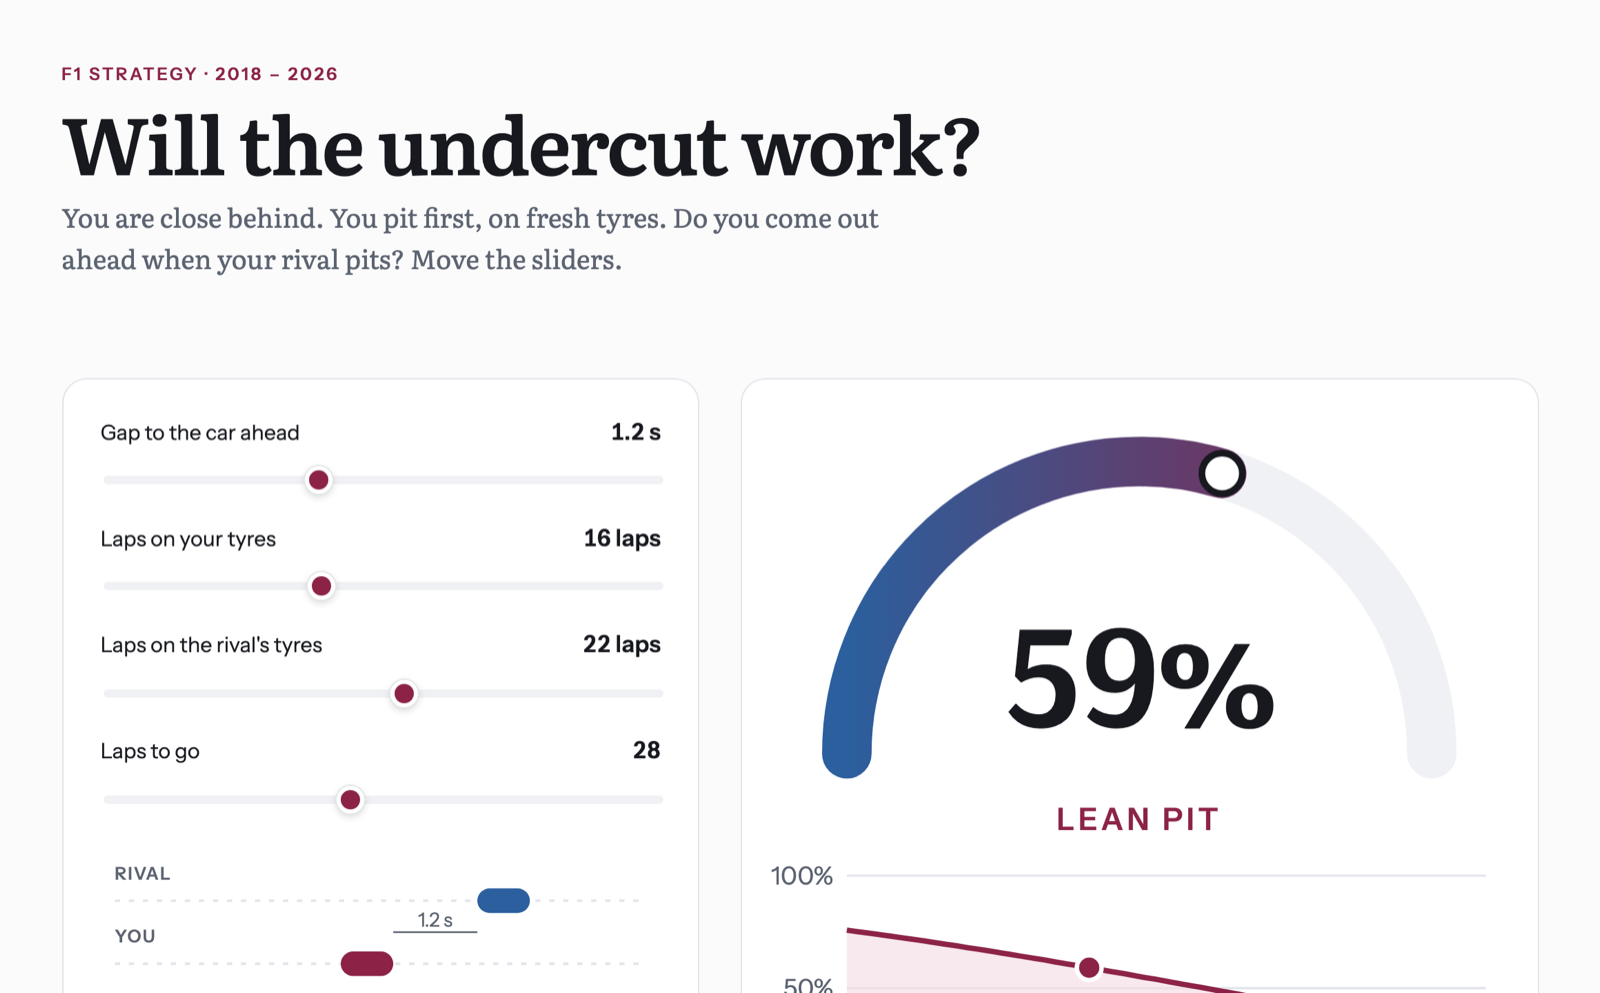
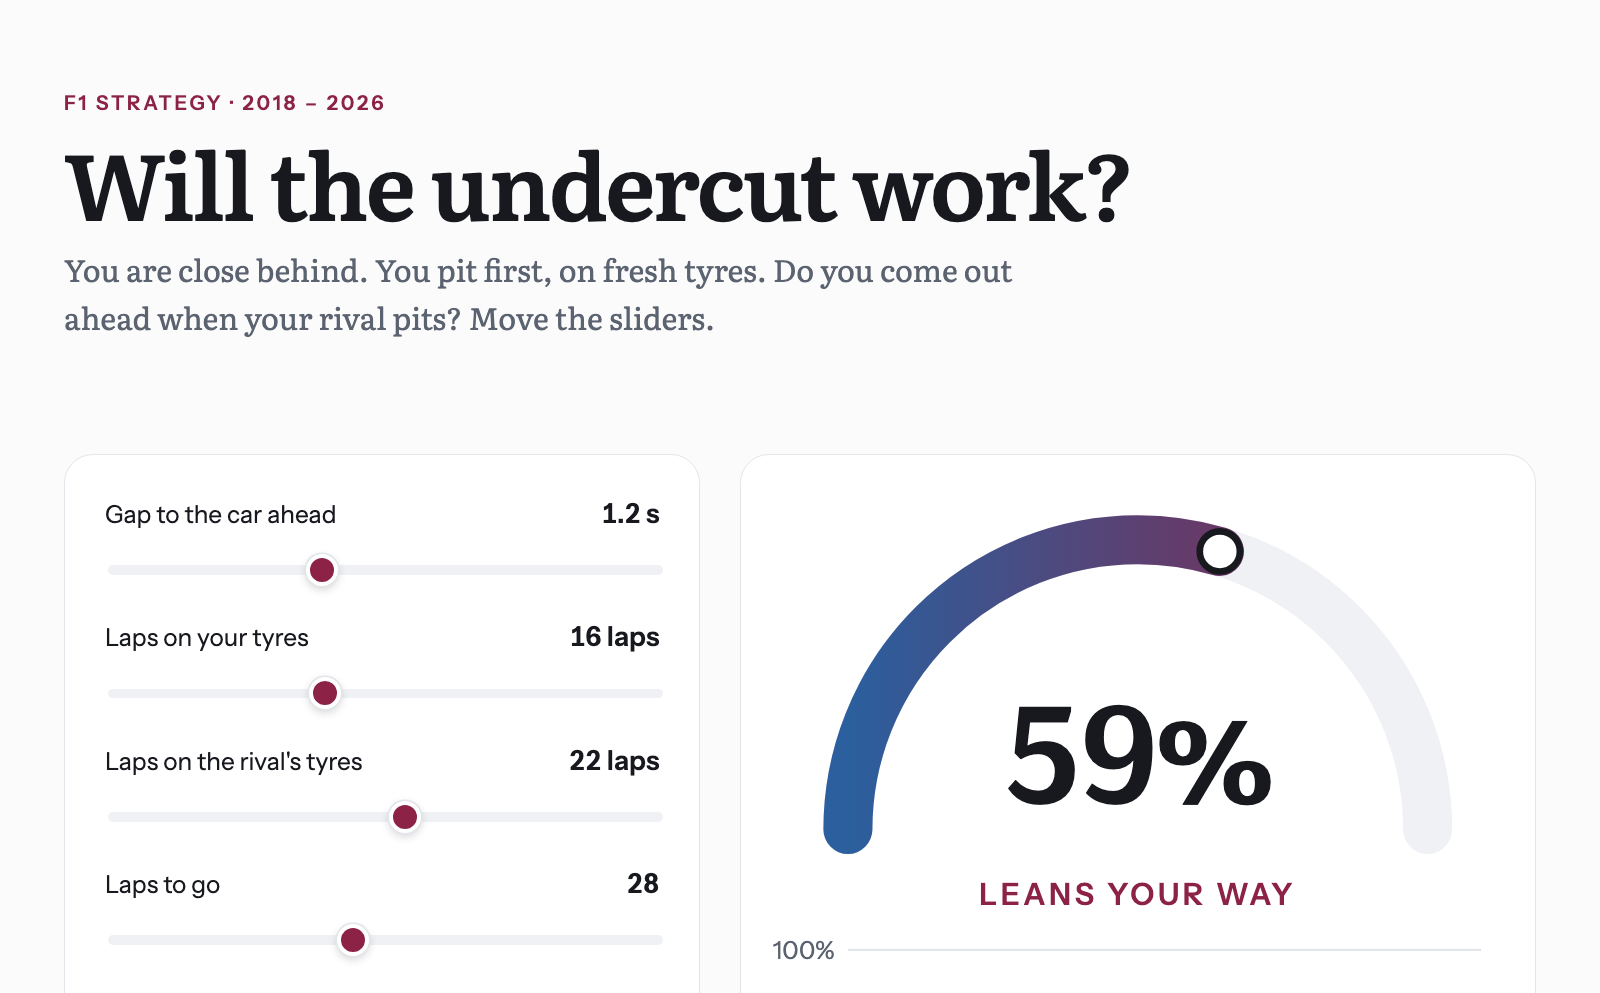
README and method: add the lap-time ranges (spec 12), spec 13 and the power analysis; new site screenshot; reproduce runs the new scripts

diff --git a/README.md b/README.md
@@ -1,15 +1,17 @@
 # pitwall
 
 Formula 1 race-strategy models built only from public lap data: a lap-time forecaster, an undercut probability tool,
-and a race simulator. Every model was tested on 2026 races that stayed locked until the end.
+and a race simulator. Each of the three models was tested on 2026 races that stayed locked until the end.
 
-**Live:** <https://shlokkvaishnav.github.io/pitwall/>: the undercut tool runs in your browser.
+**Live:** <https://shlokkvaishnav.github.io/pitwall/>: the undercut tool runs in your browser, next to a lap-by-lap replay
+of the lap-time forecast on a 2026 race that was not in its training data.
 
 [![The pitwall site](docs/site.png)](https://shlokkvaishnav.github.io/pitwall/)
 
 ## What it does
 - **Lap-time model.** LightGBM predicts each car's next lap time from its recent laps, tyre age, gaps to the cars around it
   and track evolution. It learns a correction to "next lap = last lap", and it is pre-trained on 2022 to 2025 before the new 2026 cars.
+  Each forecast comes with a range (split conformal intervals, calibrated on the earlier 2026 races).
 - **Undercut tool.** You are close behind a rival and pit first for fresh tyres. A logistic regression gives the chance that you
   come out ahead, from three numbers a strategist knows at that moment: the gap, the tyre-age difference and the laps left.
   It learned from 1,190 real pit duels (2018 to 2026). The site shows the probability, a map over gap and tyre age, and what moves it.
@@ -22,7 +24,8 @@ The 2026 races from 1 September were locked in code until the end. The final mod
 | Part | Development (2018 to Aug 2026) | Locked races (Sep to Oct 2026) |
 |---|---|---|
 | Lap-time model | 11.5% lower error than "next lap = last lap" | **Holds up.** 17% lower error (0.78 s vs 0.94 s), better in all 6 races, 5,354 laps. |
-| Undercut tool | Brier skill 0.22 on 2024 and 2025 | **Not confirmed.** Only 20 undercut attempts in these races, and the model did no better than the base rate. Too few to judge. |
+| Lap-time ranges | The 80% range holds 78.3% of laps. The 95% range holds 92.8%: slightly too narrow, so [spec 12](docs/specs/12-lap-intervals.md) fails. | Not tested. Added after the locked test; [spec 13](docs/specs/13-out-of-sample-rounds.md) tests it on rounds 19 to 23. |
+| Undercut tool | Brier skill 0.22 on 2024 and 2025 | **Not confirmed.** Only 20 undercut attempts in these races, and the model did no better than the base rate. Too few to judge: if the model is as good as on 2024 and 2025, about 80 are needed for 80% power. |
 | Race simulator | Does not beat the starting grid | Orders the field better than the grid, but its podium odds are worse. |
 | Battery use from lap times | Not visible: lap times are too coarse | Not tested. Code archived (tag `energy-experiment`). |
 
@@ -46,7 +49,7 @@ flowchart LR
 ## Engineering
 - **One-command rebuild.** `make reproduce` downloads the public data (the dump has a pinned SHA-256), runs every experiment,
   and compares every number with the committed results. `make docker-reproduce` does the same in a clean container.
-  The last Docker run rebuilt all 11 result files with no difference.
+  The last Docker run (before specs 12 and 13) rebuilt all 11 result files of that time with no difference.
 - **The browser and Python agree.** A Node test checks that the JavaScript model gives the scikit-learn probabilities (difference < 1e-5).
 - **Checks on each push:** ruff (lint), mypy (types), pytest, Node tests. CI runs only on push, never on a schedule.
 - **No raw data in the repository.** The site shows only model numbers.

diff --git a/docs/method.md b/docs/method.md
@@ -31,11 +31,18 @@ This page is the one place to read how pitwall was tested. The detailed plans li
 | [09](specs/09-undercut-replication.md) | Does the decision-time model hold on 2018 to 2021? | **Yes.** 136 unseen duels, p = 0.016. |
 | [10](specs/10-undercut-open-events.md) | Is it better than a published model ([arXiv 2607.06495](https://arxiv.org/abs/2607.06495))? | **No.** Equal to the simpler published-style model (Brier skill 0.22 on 2024 and 2025). The site uses the simpler model. |
 | [11](specs/11-holdout.md) | Final test on 6 locked 2026 races | Lap-time model **passes** (0.779 s vs 0.939 s, better in all 6 races). Undercut model **fails** (20 events, no skill). Simulator **fails**. |
+| [12](specs/12-lap-intervals.md) | Do conformal ranges around the lap-time forecast hold their coverage? (development rounds 4 to 12) | 80% range: 78.3% of 9,034 laps (pass). 95% range: 92.8% (**fails**, the band was 93% to 97%). Ranges calibrated on 2025 are too narrow (71.1% for 80%). |
+| [13](specs/13-out-of-sample-rounds.md) | Registered test on 2026 rounds 19 to 23 (lap time, ranges, undercut) | Not run yet (needs the December dump). Power analysis: 80 undercut events give 82% power at the 2024–25 skill; 20 events give 54%. |
 
 ## Known limitations
 - **Selection bias in the undercut model.** It learns from undercuts that teams chose to try. It gives the chance that an
   attempted undercut works, not the effect of pitting versus staying out. The site shows odds, not advice.
 - **Small samples.** The final test has 6 races and only 20 undercut attempts. A bootstrap over 6 race blocks is coarse.
+  The spec 13 power analysis shows that a model as good as on 2024 and 2025 passes a 20-event test only 54% of the time.
+- **The lap-time range has one width.** It does not get wider in traffic: with the car ahead closer than 1 s, the 80% range
+  holds 73.2% of laps (spec 12). The 95% range is slightly too narrow.
+- **Missed neutral laps.** Jolpica has no flag data. When only part of the field is slow (the restart after a red flag),
+  the detector can miss the lap, and the next forecast is far off. The site replay shows one such lap.
 - **Future information in specs 07 and 08.** Their models used `wait_laps` (how long the rival waited to respond), which is
   not known when the car pits. Spec 08 added a decision-time model to fix this, and spec 10 removed the feature entirely.
   The deployed model uses only gap, tyre-age difference and laps remaining.
@@ -44,4 +51,4 @@ This page is the one place to read how pitwall was tested. The detailed plans li
 - **One unexplained outlier.** In spec 03, `gbm_2026` (trained on 2026 races only) had a 9.6 s mean error on round 10 (Belgium).
   `gbm_pretrain` did not. We did not find the cause. It is one reason the pre-trained model is the one we use.
 - **Calibration at the extremes.** On 2024 and 2025, the 0.8 to 1.0 probability bin has only 6 events.
-- **Dump date.** The pinned dump ends at the United States GP (round 18). Rounds 19 onward are not tested.
+- **Dump date.** The pinned dump ends at the United States GP (round 18). Rounds 19 onward are not tested yet ([spec 13](specs/13-out-of-sample-rounds.md)).

diff --git a/docs/specs/13-out-of-sample-rounds.md b/docs/specs/13-out-of-sample-rounds.md
@@ -10,7 +10,7 @@ the lap-time model, its intervals (spec 12) and the undercut model. Nothing is t
 
 ## 2. Data
 - A new Jolpica dump with rounds 19 to 23, pinned by its SHA-256 in `scripts/fetch_dump.py` in the run commit.
-- Check before the run: for every race from 2018 to 2026 round 18, the number of laps and pit stops for each race in the new dump
+- Check before the run: for every race from 2018 to 2026 round 18, the number of laps and pit stops in the new dump
   equals the pinned 2026-11-01 dump. We report every difference. Development and spec 11 results are not recomputed.
 - TracingInsights tyre files for rounds 19 to 23 (`fetch_tyres.py --holdout 19 20 21 22 23`).
 - The loaders open rounds 19 to 23 with `allow_holdout=True`, in the spec 13 script only.
